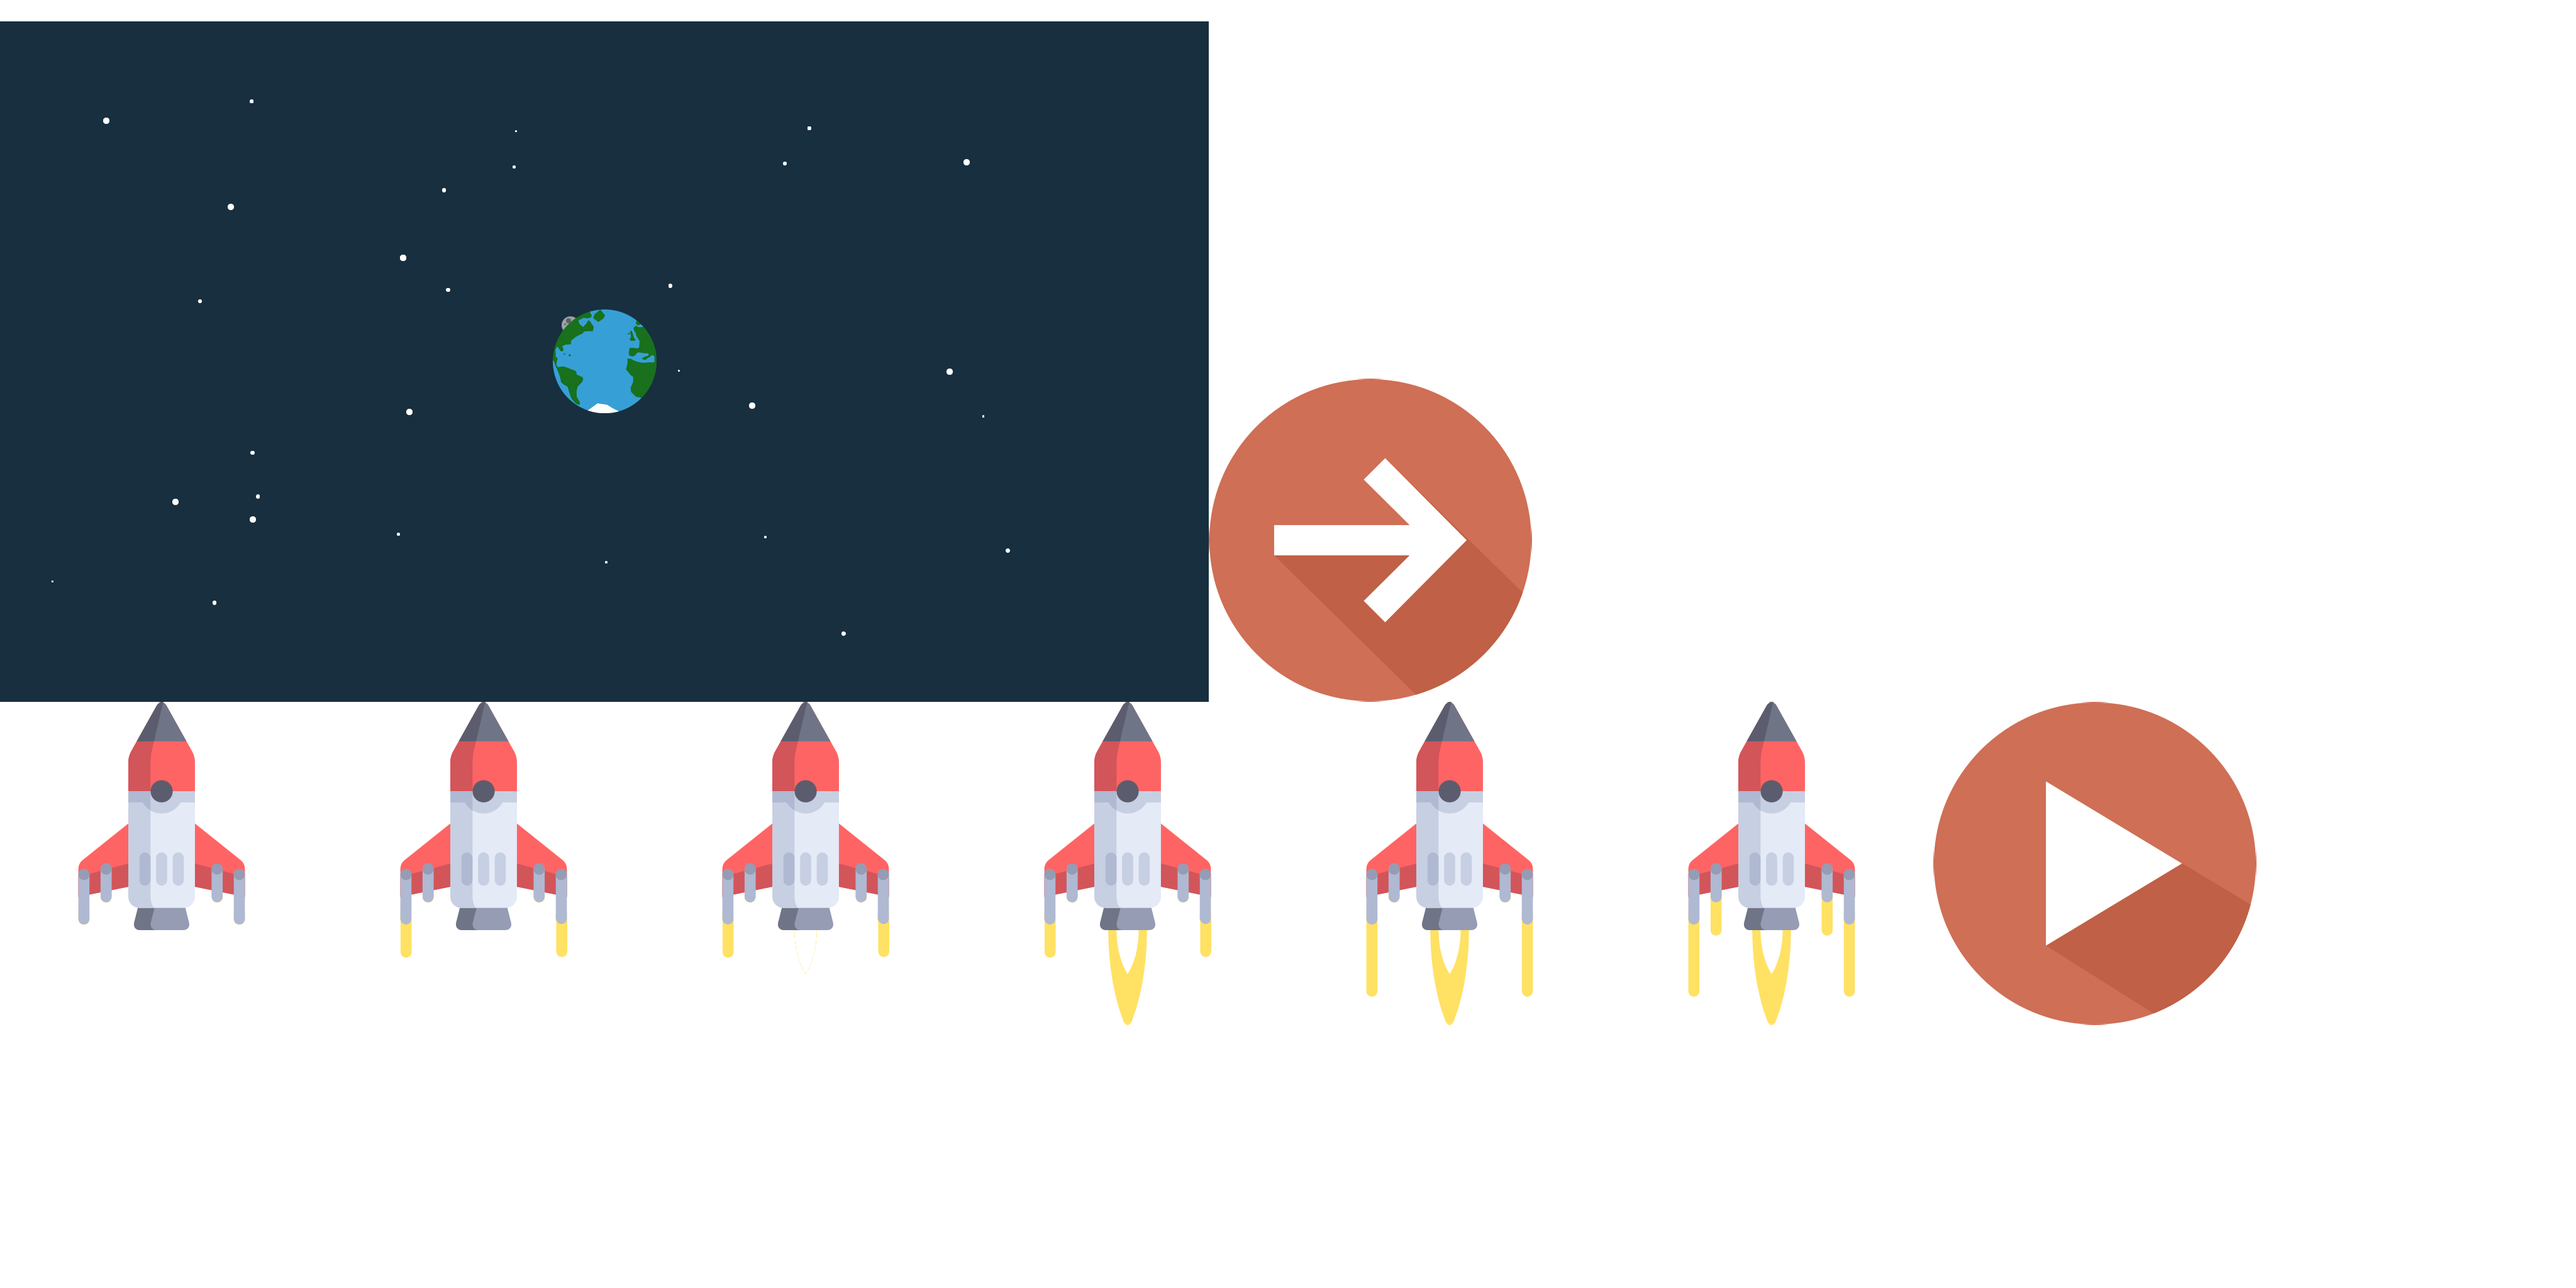
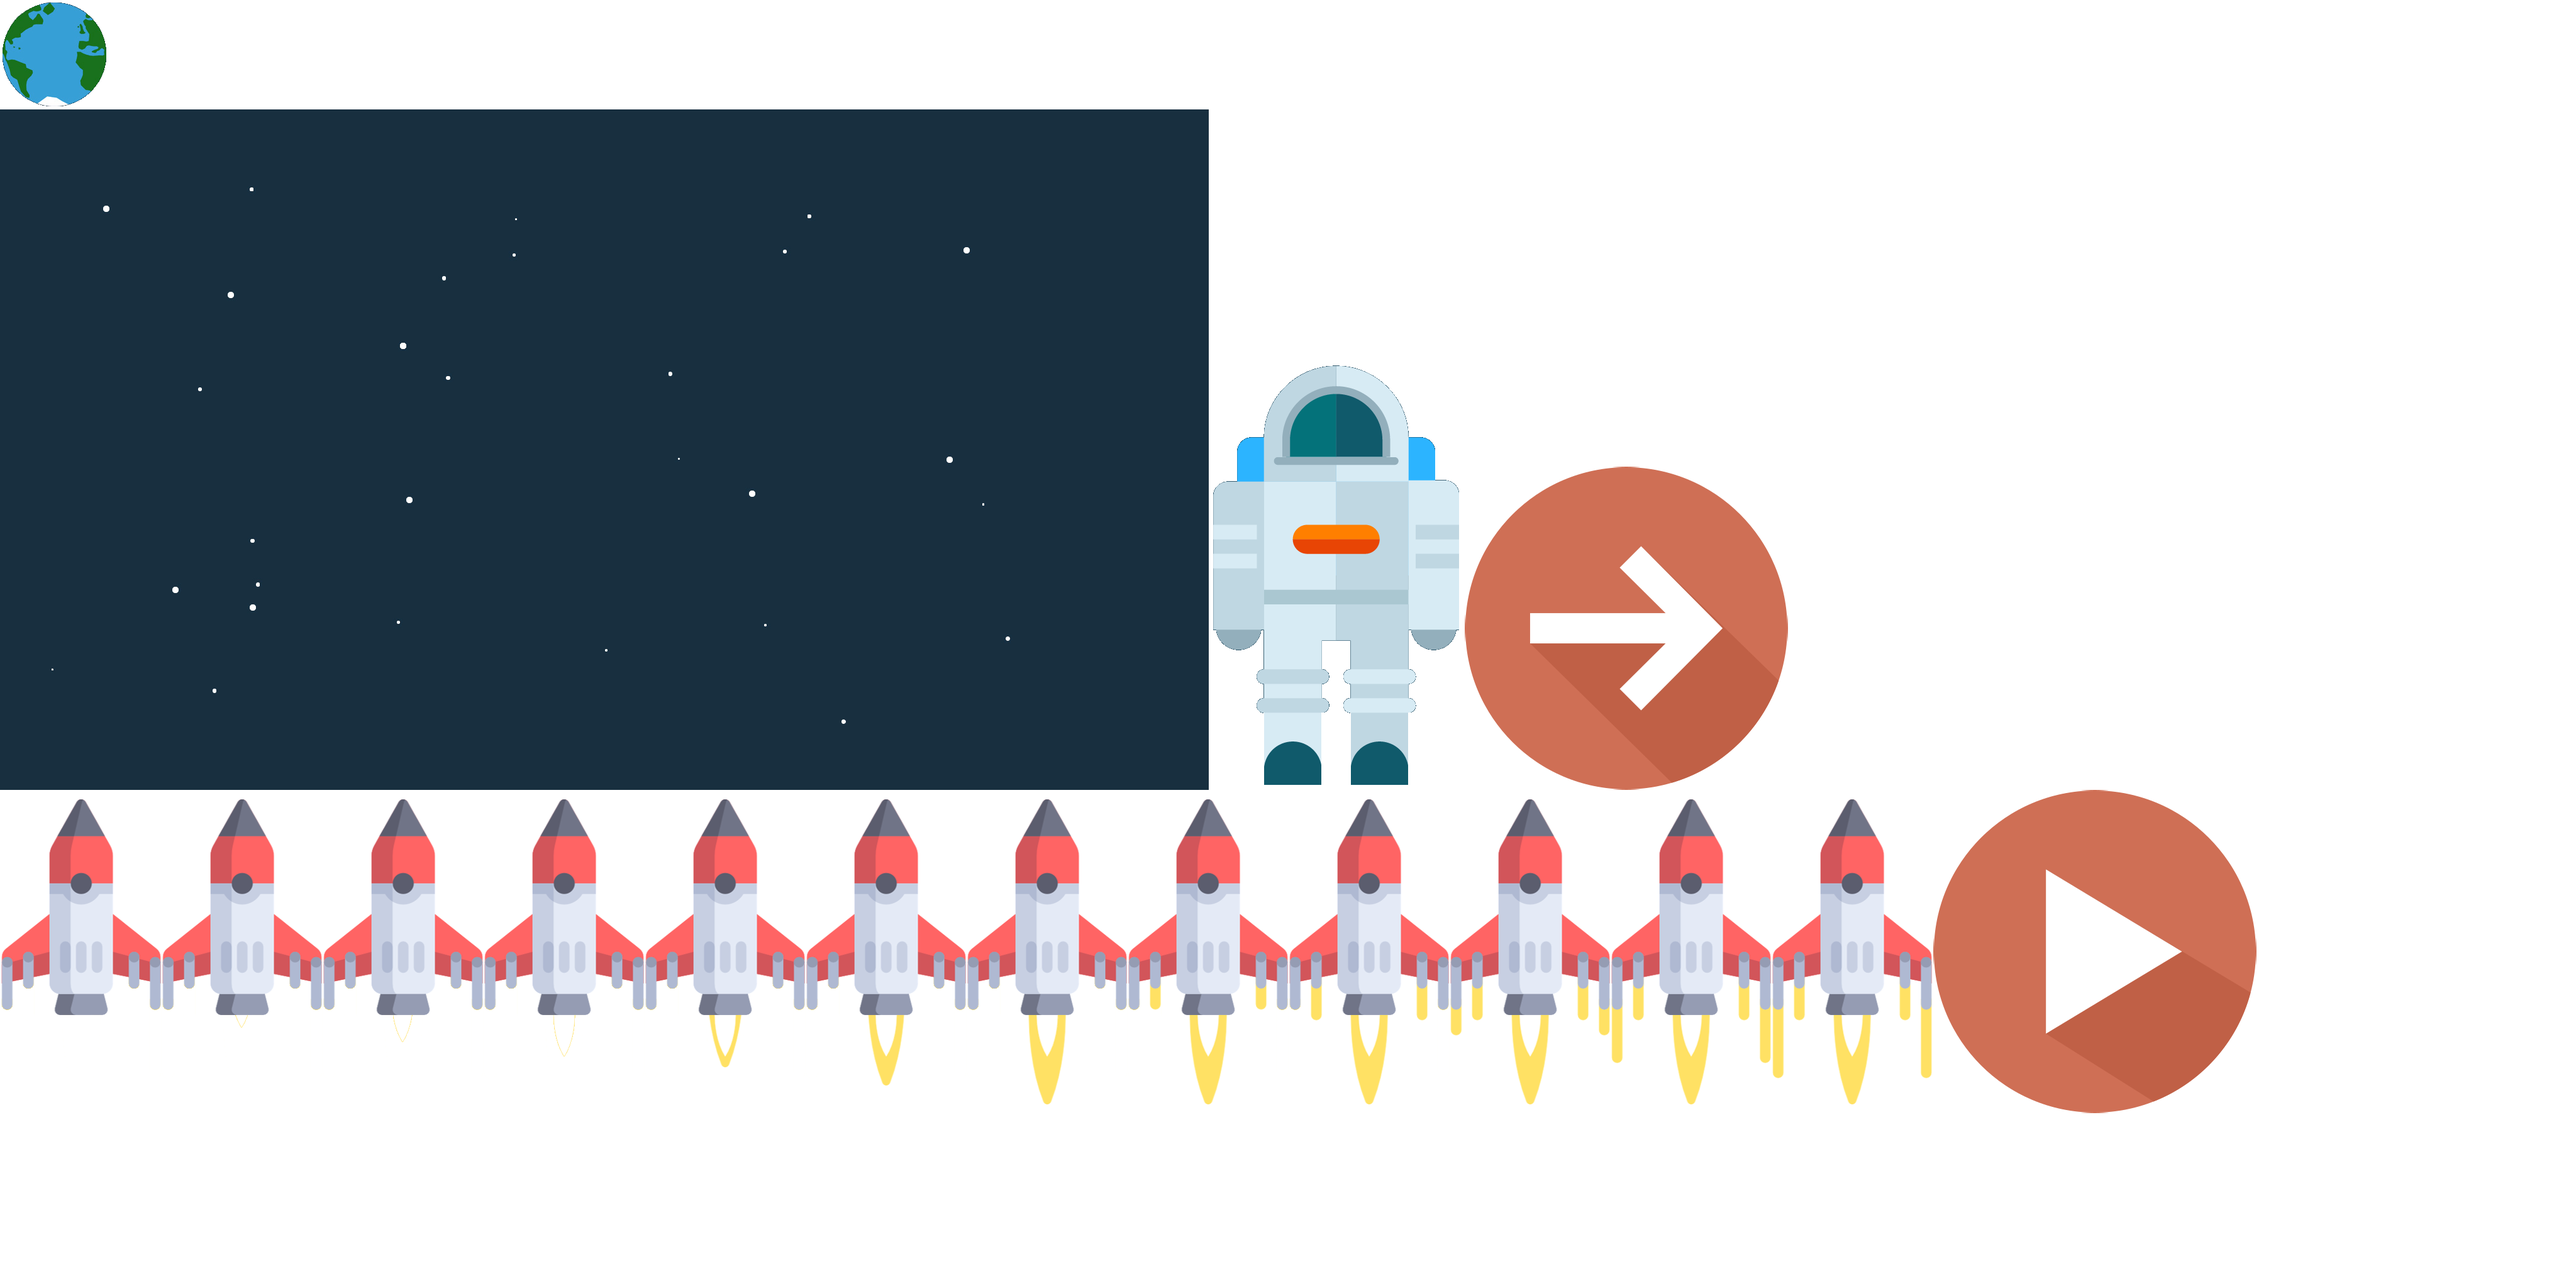
EarthRotation

Changed region(s): [[0.0, 0.2812, 0.875, 0.875], [0.0, 0.0, 0.4688, 0.0938], [0.2188, 0.2188, 0.25, 0.3438]]

diff --git a/core/src/ru/geekbrains/game/screen/GameScreen.java b/core/src/ru/geekbrains/game/screen/GameScreen.java
@@ -4,15 +4,17 @@ import com.badlogic.gdx.Game;
 import com.badlogic.gdx.graphics.g2d.TextureAtlas;
 import com.badlogic.gdx.math.Vector2;
 
-import ru.geekbrains.game.Background;
+import ru.geekbrains.game.ui.Background;
 import ru.geekbrains.game.players.Player;
 import ru.geekbrains.game.star.StarsHandler;
+import ru.geekbrains.game.ui.Earth;
 import ru.geekbrains.stargame.engine.Base2DScreen;
 import ru.geekbrains.stargame.engine.math.Rect;
 
 public class GameScreen extends Base2DScreen {
 
     private Background background;
+    private Earth earth;
     private StarsHandler stars;
     private TextureAtlas mainAtlas;
     private Player player;
@@ -25,9 +27,10 @@ public class GameScreen extends Base2DScreen {
     public void show() {
         super.show();
         mainAtlas = new TextureAtlas("mainAtlas.atlas");
-        background = new Background(mainAtlas);
         stars = new StarsHandler(mainAtlas);
         player = new Player(mainAtlas, stars);
+        background = new Background(mainAtlas);
+        earth = new Earth(mainAtlas);
     }
 
     @Override
@@ -42,10 +45,13 @@ public class GameScreen extends Base2DScreen {
     public void update(float delta) {
         stars.update(delta);
         player.update(delta);
+        background.update(delta);
+        earth.update(delta);
     }
 
     public void draw() {
         background.draw(batch);
+        earth.draw(batch);
         stars.draw(batch);
         player.draw(batch);
     }
@@ -53,6 +59,7 @@ public class GameScreen extends Base2DScreen {
     @Override
     protected void resize(Rect worldBounds) {
         background.resize(worldBounds);
+        earth.resize(worldBounds);
         stars.resize(worldBounds);
         player.resize(worldBounds);
     }
@@ -81,6 +88,7 @@ public class GameScreen extends Base2DScreen {
     public void dispose() {
         super.dispose();
         background.dispose();
+        earth.dispose();
         player.dispose();
         stars.dispose();
         mainAtlas.dispose();

diff --git a/core/src/ru/geekbrains/game/players/Player.java b/core/src/ru/geekbrains/game/players/Player.java
@@ -26,11 +26,11 @@ public class Player extends Sprite {
         tmp.set(target);
         setAngle(tmp.sub(pos).angle() - 90);
         tmp.set(target);
-        stars.setVangle(tmp.sub(pos).angle());
+        stars.setVAngle(tmp.sub(pos).angle());
     }
 
     public Player(TextureAtlas atlas, StarsHandler stars) {
-        super(atlas.findRegion("player"), 1, 6, 6);
+        super(atlas.findRegion("player"), 1, 12, 12);
         tmp = new Vector2();
         tmp2 = new Vector2();
         tmp3 = new Vector2();
@@ -57,7 +57,7 @@ public class Player extends Sprite {
             if (destanation.len() > delta) {
                 pos.mulAdd(tmp3, VELOCITY * delta);
                 frame += 1;
-                frame %= 6;
+                frame %= 12;
             }
             else pos.set(target);
             //

diff --git a/core/src/ru/geekbrains/game/ui/Earth.java b/core/src/ru/geekbrains/game/ui/Earth.java
@@ -1,0 +1,30 @@
+package ru.geekbrains.game.ui;
+
+import com.badlogic.gdx.graphics.g2d.TextureAtlas;
+
+import ru.geekbrains.stargame.engine.Sprite;
+import ru.geekbrains.stargame.engine.math.Rect;
+
+/**
+ * Created by sol on 2/12/18.
+ */
+
+public class Earth extends Sprite {
+
+    private final float ROTATION = 0.05f;
+
+    public Earth(TextureAtlas atlas) {
+        super(atlas.findRegion("earth"));
+    }
+
+    @Override
+    public void resize(Rect worldBounds) {
+        setHeightProportion(0.15f);
+        pos.set(worldBounds.pos);
+    }
+
+    @Override
+    public void update(float delta) {
+        angle += ROTATION;
+    }
+}

diff --git a/core/src/ru/geekbrains/game/star/Star.java b/core/src/ru/geekbrains/game/star/Star.java
@@ -43,9 +43,7 @@ public class Star extends Sprite {
     public void resize(Rect worldBounds) {
         this.worldBounds = worldBounds;
         float posX = Rnd.nextFloat(worldBounds.getLeft(), worldBounds.getRight());
-//        float posX = worldBounds.getLeft() + 0.2f;
         float posY = Rnd.nextFloat(worldBounds.getBottom(), worldBounds.getTop());
-//        float posY = worldBounds.getTop();
         pos.set(posX, posY);
     }
 }

diff --git a/core/src/ru/geekbrains/game/ui/Background.java b/core/src/ru/geekbrains/game/ui/Background.java
@@ -1,4 +1,4 @@
-package ru.geekbrains.game;
+package ru.geekbrains.game.ui;
 
 import com.badlogic.gdx.graphics.g2d.TextureAtlas;
 
@@ -15,8 +15,5 @@ public class Background extends Sprite {
     public void resize(Rect worldBounds) {
         setHeightProportion(worldBounds.getHeight());
         pos.set(worldBounds.pos);
-    }
-
-    public void update(){
     }
 }

diff --git a/core/src/ru/geekbrains/game/screen/MenuScreen.java b/core/src/ru/geekbrains/game/screen/MenuScreen.java
@@ -5,7 +5,7 @@ import com.badlogic.gdx.Gdx;
 import com.badlogic.gdx.graphics.g2d.TextureAtlas;
 import com.badlogic.gdx.math.Vector2;
 
-import ru.geekbrains.game.Background;
+import ru.geekbrains.game.ui.Background;
 
 import ru.geekbrains.game.star.StarsHandler;
 import ru.geekbrains.game.ui.ExitButton;

diff --git a/core/src/ru/geekbrains/game/star/StarsHandler.java b/core/src/ru/geekbrains/game/star/StarsHandler.java
@@ -27,7 +27,7 @@ public class StarsHandler {
         }
     }
 
-    public void setVangle(float angle) {
+    public void setVAngle(float angle) {
         for (int i = 0; i < stars.length; i++) {
             stars[i].setV(stars[i].getV().setAngle(angle - 180));
         }
